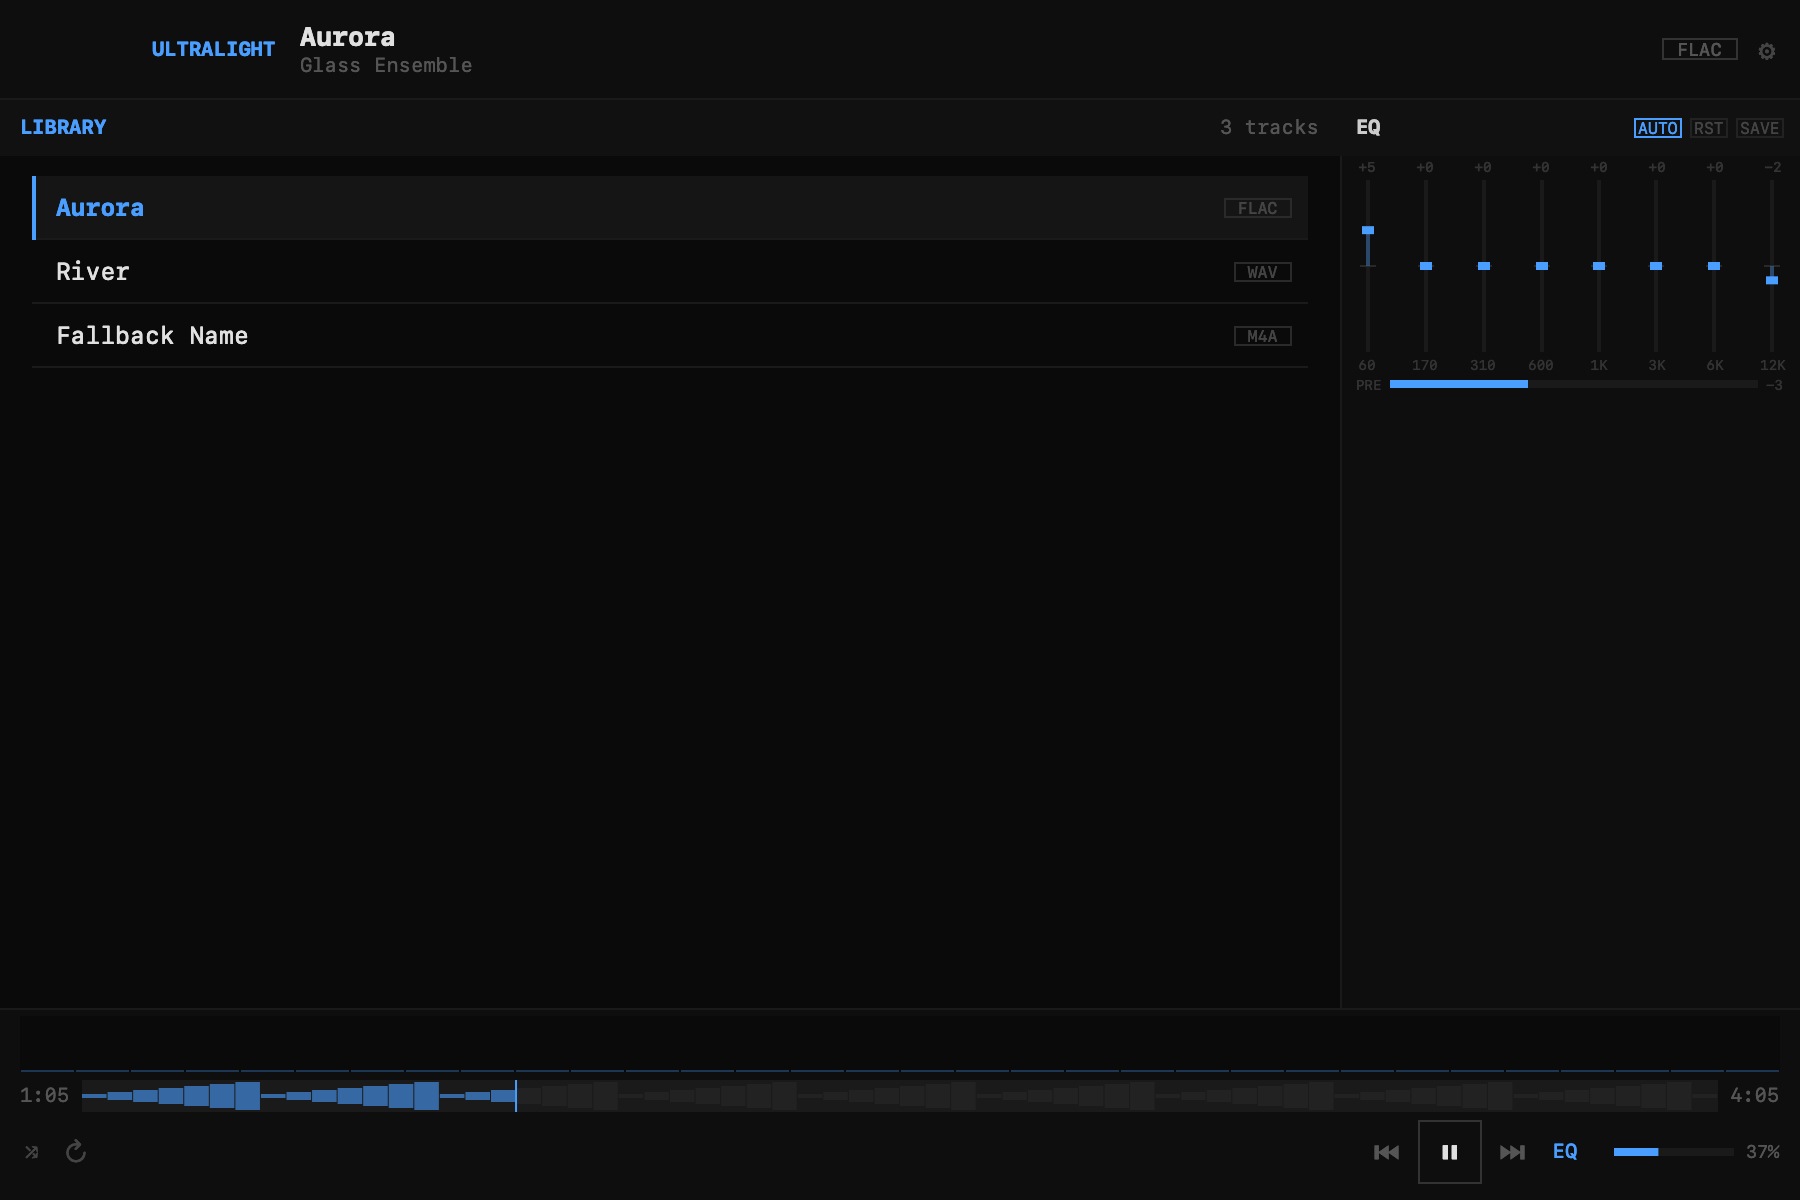
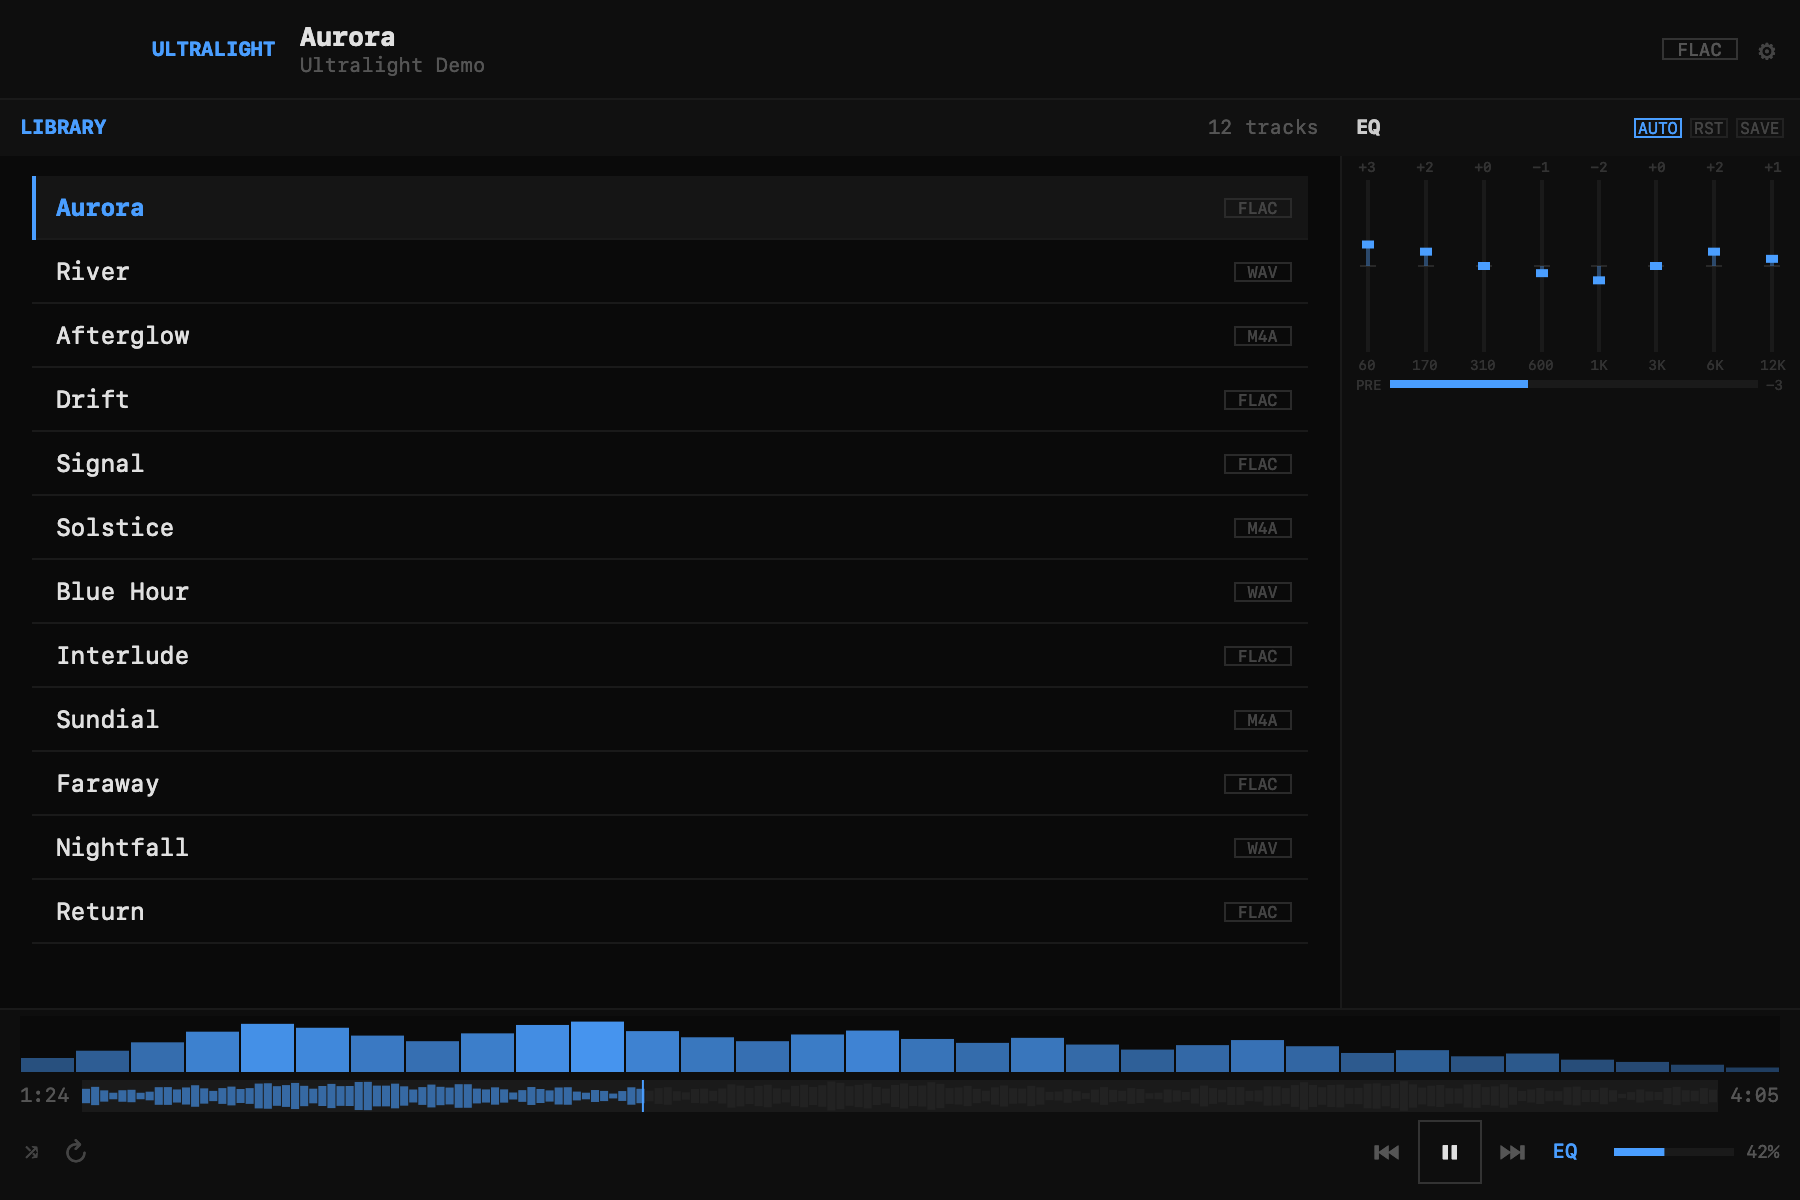
Record passing macOS compatibility checks and refresh demo screenshot

diff --git a/docs/evidence/README.md b/docs/evidence/README.md
@@ -1,6 +1,6 @@
 # Build measurements and verification
 
-This directory records the measured 2.2.0 build at source commit [`dbd42ad`](https://github.com/dungbeetlephoenix/ultralight-appkit/commit/dbd42ad2d873ab2ca0aa219466ef106cdbb05129). The complete app is **192,812 bytes** with an ad-hoc signature. Documentation changes after that commit do not alter the measured build inputs.
+This directory records the measured 2.2.0 build at source commit [`dbd42ad`](https://github.com/dungbeetlephoenix/ultralight-appkit/commit/dbd42ad2d873ab2ca0aa219466ef106cdbb05129). The complete app is **192,812 bytes** with an ad-hoc signature. Documentation changes after that commit do not alter the measured build inputs. A subsequent hosted run at `f8efb00` verifies the same inputs on additional macOS versions.
 
 ## Recorded results
 
@@ -13,15 +13,16 @@ This directory records the measured 2.2.0 build at source commit [`dbd42ad`](htt
 | App integrity | Native signature, tamper checks, and executable-layout checks passed |
 | Disk image | Mounted read-only; packaged app files and hashes match the verified bundle |
 | SwiftPM | Fresh development and full-LTO release builds passed |
+| Hosted CI | [All four jobs passed](https://github.com/dungbeetlephoenix/ultralight-appkit/actions/runs/37575656934): tooling, fresh build, and compatibility on macOS 14.8.9 and 26.6.2 |
 | macOS 26.7 runtime | [11 compatibility checks passed](compatibility-macos-26.json) with the same source hashes as the measured release |
 
 These results cover generated audio fixtures and the exercised interface and state paths. They are not a complete certification of codec support, audio hardware, or accessibility workflows.
 
 ## Distribution and compatibility status
 
-The recorded build targets arm64 macOS 14.0. A successful macOS 14 runtime run, Developer ID signing and notarization, and a downloaded-app launch remain outstanding release checks. The measured artifact is intended for local use.
+The recorded build targets arm64 macOS 14.0. The identical signed compatibility fixture passed all 11 checks on both arm64 macOS 14.8.9 and 26.6.2. Developer ID signing, notarization, and a downloaded-app launch remain outstanding release checks. The measured artifact is intended for local use.
 
-Hosted automation is tracked separately in [GitHub Actions](https://github.com/dungbeetlephoenix/ultralight-appkit/actions). The source workflow is configured to run the same compiled compatibility fixture on macOS 14 and 26. The full release workflow requires a trusted desktop runner with audio output and a logged-in graphical session; it does not skip those gates when the environment is unavailable.
+Hosted automation is tracked separately in [GitHub Actions](https://github.com/dungbeetlephoenix/ultralight-appkit/actions). The recorded hosted run uses the same source hashes as the measured release; its identical fixture-manifest hash on both OS versions is recorded in [compatibility-hosted.json](compatibility-hosted.json). The full release workflow requires a trusted desktop runner with audio output and a logged-in graphical session; it does not skip those gates when the environment is unavailable.
 
 ## Evidence files
 
@@ -29,6 +30,7 @@ Hosted automation is tracked separately in [GitHub Actions](https://github.com/d
 | --- | --- |
 | [release.json](release.json) | Exact sizes, app-file hashes, source/test/build input hashes, compiler flags, signature details, and gate outcomes |
 | [history.json](history.json) | Earlier size measurements and available artifact hashes |
+| [compatibility-hosted.json](compatibility-hosted.json) | Hosted run, compiler, common fixture hash, and macOS 14/26 runtime results |
 | [compatibility-macos-26.json](compatibility-macos-26.json) | Runtime environment and individual compatibility results |
 | [observation-comparison.json](observation-comparison.json) | Comparison of automatic and explicit Combine notifications: 343 assertions per implementation and 97 identical event traces |
 

diff --git a/BUILDING.md b/BUILDING.md
@@ -11,7 +11,7 @@ Ultralight uses Swift, AppKit, and the audio frameworks included with macOS. It 
 | Python tooling | Python 3.9 or later; standard library only |
 | Full native verification | A logged-in macOS desktop with an available audio output device |
 
-The deployment target is not a runtime test result: macOS 14 verification is still pending. The [verification record](docs/evidence/README.md) distinguishes completed checks from outstanding release work.
+The native compatibility fixture has passed on arm64 macOS 14.8.9 and 26.6.2 in hosted CI. The full release gates were run on the reference macOS 26.7 desktop. The [verification record](docs/evidence/README.md) describes each check and its scope.
 
 The release script requires native Apple silicon and Apple Swift 6.3.3. Select the intended Xcode using `DEVELOPER_DIR` or `xcode-select`. A different compiler can change code generation, linker support, and artifact size.
 
@@ -93,7 +93,7 @@ Use a Developer ID Application identity, rather than an Apple Development certif
 
 ## CI and runtime compatibility
 
-The [source workflow](.github/workflows/checks.yml) is configured to run the Python tooling tests, build from a fresh SwiftPM directory with Xcode 26.6, and compile a signed native compatibility fixture. Its macOS 14 and 26 jobs run the same compiled fixture, so the comparison does not depend on building with a different compiler on each OS. Hosted CI results have not yet been recorded for this release.
+The [source workflow](.github/workflows/checks.yml) is configured to run the Python tooling tests, build from a fresh SwiftPM directory with Xcode 26.6, and compile a signed native compatibility fixture. Its macOS 14 and 26 jobs run the same compiled fixture, so the comparison does not depend on building with a different compiler on each OS. The [recorded hosted run](https://github.com/dungbeetlephoenix/ultralight-appkit/actions/runs/37575656934) passed all four jobs; its build inputs match the measured release.
 
 The fixture exercises AppKit loading and drawing, Combine notifications, accessibility actions, icon decoding, native audio-file decoding, and asynchronous metadata loading without playing audio. It is a runtime smoke test. It does not replace the full release gates, exact image comparisons, or listening tests.
 

diff --git a/README.md b/README.md
@@ -4,7 +4,9 @@ A native macOS music player built around a 200 KB size budget.
 
 Ultralight plays your local music library with an eight-band equalizer, per-track settings, and audio visualization. Written in Swift with AppKit, it uses the audio frameworks included with macOS and has no third-party dependencies.
 
-![Ultralight showing a music library, spectrum display, waveform, and equalizer](screenshot.png)
+![Ultralight showing a demo music library, spectrum display, waveform, and equalizer](screenshot.png)
+
+*The native interface, shown with demo tracks and illustrative audio data.*
 
 ## Features
 
@@ -18,7 +20,7 @@ Audio decoding is provided by macOS. File support depends on the codec and conta
 
 ## Build and run
 
-Use an Apple silicon Mac with Xcode installed. The deployment target is macOS 14; the recorded runtime checks were performed on macOS 26.7. See the [build guide](BUILDING.md) for the exact toolchain and [verification record](docs/evidence/README.md) for compatibility status.
+Use an Apple silicon Mac with Xcode installed. The app targets macOS 14 or later. See the [build guide](BUILDING.md) for the reference toolchain and [verification record](docs/evidence/README.md) for tested environments.
 
 ```sh
 git clone https://github.com/dungbeetlephoenix/ultralight-appkit.git
@@ -51,7 +53,7 @@ The release builder enforces a **200,000-byte limit on the complete app bundle**
 
 These are logical file sizes from the verified Apple silicon build. The app is ad-hoc signed for local use; a notarized public download is not yet available. Developer ID signing and notarization must meet the same size limit.
 
-The recorded build passes 779 native assertions, 53 tooling tests, and the allocation, signature, and disk-image checks. Three reference screenshots remain byte-for-byte unchanged. [Measurements and verification scope →](docs/evidence/README.md)
+The recorded build passes 779 native assertions, 53 tooling tests, and the allocation, signature, and disk-image checks. Hosted compatibility checks also pass on macOS 14 and 26. Three reference screenshots remain byte-for-byte unchanged. [Measurements and verification scope →](docs/evidence/README.md)
 
 ## Engineering
 

diff --git a/ENGINEERING.md b/ENGINEERING.md
@@ -87,6 +87,6 @@ The recorded build passes 779 native assertions and 53 tooling tests, plus alloc
 
 The runner invalidates old success reports before starting. Missing fixtures fail the run; timed-out test processes are stopped and leave diagnostics. Each release uses a private gate report tied to its source hashes, builds in a fresh staging directory, and replaces the previous output only after all checks pass. The disk image is mounted read-only and its app is compared with the verified bundle.
 
-The [verification record](docs/evidence/README.md) separates local results from outstanding checks. The macOS 14 deployment target still requires a successful runtime check on that OS. Public signing, notarization, and a downloaded-app launch also require their own recorded results. Device changes, Bluetooth behavior, and codec-specific edge cases extend beyond the current fixtures.
+The [verification record](docs/evidence/README.md) separates local results from outstanding checks. The same compiled compatibility fixture passes on arm64 macOS 14.8.9 and 26.6.2 in hosted CI. Public signing, notarization, and a downloaded-app launch also require their own recorded results. Device changes, Bluetooth behavior, and codec-specific edge cases extend beyond the current fixtures.
 
 See [BUILDING.md](BUILDING.md) to reproduce the build and its checks.

diff --git a/CHANGELOG.md b/CHANGELOG.md
@@ -23,7 +23,7 @@
 
 ### Release status
 
-The recorded build is ad-hoc signed and verified for local use. macOS 14 runtime compatibility, hosted CI execution, Developer ID signing, Apple notarization, and launch after download remain unverified for this release. See the [verification record](docs/evidence/README.md) for completed checks and their scope, and [BUILDING.md](BUILDING.md) for reproduction commands.
+The recorded build is ad-hoc signed and verified for local use. Hosted build and tooling checks pass, along with the native compatibility fixture on macOS 14 and 26. Developer ID signing, Apple notarization, and launch after download remain unverified for this release. See the [verification record](docs/evidence/README.md) for completed checks and their scope, and [BUILDING.md](BUILDING.md) for reproduction commands.
 
 ## Version policy
 
